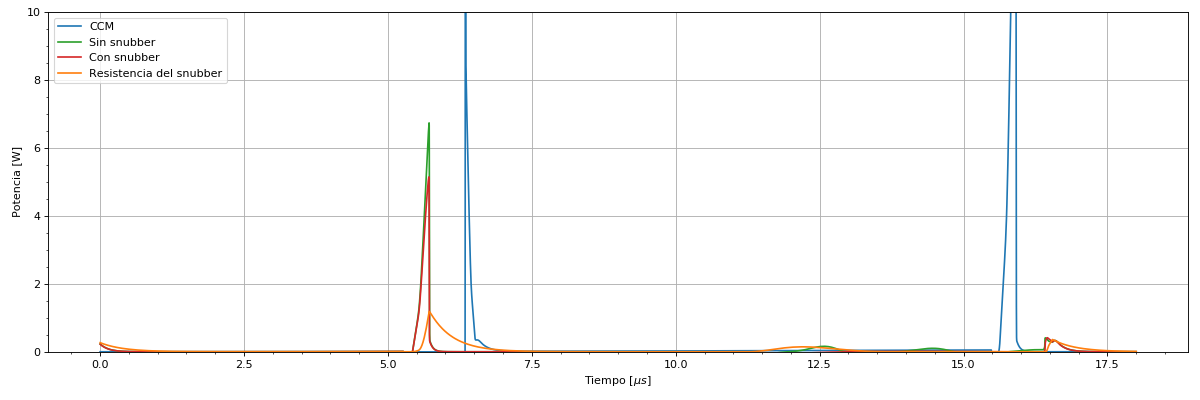
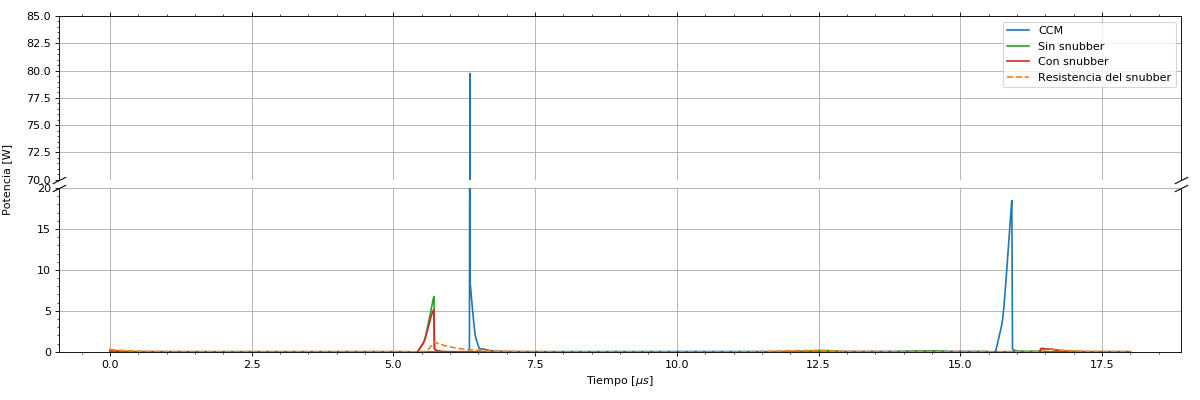
crop

diff --git a/TP1/Ejercicio 4/Python/SpiceCurves.py b/TP1/Ejercicio 4/Python/SpiceCurves.py
@@ -132,25 +132,50 @@ else:
     color3 = 'tab:red'
     color4 = 'tab:orange'
 
-    plt.figure(num=6, figsize=(15, 5), dpi=80, facecolor='w', edgecolor='k')
-    plt.ylabel("Potencia [W]")
+    fig, (ax1, ax2) = plt.subplots(2, 1, sharex=True, figsize=(15, 5), dpi=80, facecolor='w', edgecolor='k')
+    fig.subplots_adjust(hspace=0.05)  # adjust space between axes
+
+    l1, = ax1.plot(t_ccm, pot_ccm, color=color1)
+    l1, = ax2.plot(t_ccm, pot_ccm, color=color1)
+
+    l2, = ax1.plot(t_pot, pot_pot, color=color2)
+    l2, = ax2.plot(t_pot, pot_pot, color=color2)
+
+    l3, = ax1.plot(t_snub, pot_snub, color=color3)
+    l3, = ax2.plot(t_snub, pot_snub, color=color3)
+
+    l4, = ax1.plot(t_snub, pot_snub_r, '--', color=color4)
+    l4, = ax2.plot(t_snub, pot_snub_r, '--', color=color4)
+
+    plt.text(-1.9, 21, 'Potencia [W]', va='center', rotation='vertical')
+
+    ax1.set_ylim(70, 85)  # outliers only
+    ax2.set_ylim(0, 20)  # most of the data
+
+    # hide the spines between ax and ax2
+    ax1.spines['bottom'].set_visible(False)
+    ax2.spines['top'].set_visible(False)
+    ax1.xaxis.tick_top()
+    ax1.tick_params(labeltop=False)  # don't put tick labels at the top
+    ax2.xaxis.tick_bottom()
+
+    d = .5  # proportion of vertical to horizontal extent of the slanted line
+    kwargs = dict(marker=[(-1, -d), (1, d)], markersize=12,
+                  linestyle="none", color='k', mec='k', mew=1, clip_on=False)
+    ax1.plot([0, 1], [0, 0], transform=ax1.transAxes, **kwargs)
+    ax2.plot([0, 1], [1, 1], transform=ax2.transAxes, **kwargs)
+
+    ax1.legend([l1, l2, l3, l4], ["CCM", "Sin snubber", "Con snubber", "Resistencia del snubber"])
+
+    ax1.minorticks_on()
+    ax1.grid(which='major')
+    ax2.minorticks_on()
+    ax2.grid(which='major')
+
     plt.xlabel('Tiempo $[\mu s]$')
-
-    plt.minorticks_on()
-    plt.grid(which='major')
-
-    l1, = plt.plot(t_ccm, pot_ccm, color=color1)
-    l2, = plt.plot(t_pot, pot_pot, color=color2)
-    l3, = plt.plot(t_snub, pot_snub, color=color3)
-    l4, = plt.plot(t_snub, pot_snub_r, '-', color=color4)
-
-    plt.legend([l1, l2, l3, l4], ["CCM", "Sin snubber", "Con snubber", "Resistencia del snubber"])
-
+    #ax1.text(-1.75, 85, 'Potencia [W]', va='top', rotation='vertical')
     plt.tight_layout()
-
-    plt.savefig('..\..\Tex\Ejercicio-4\ImagenesEjercicio-4\potencias.png')
-
-    plt.ylim(0, 10)
+    fig.subplots_adjust(hspace=0.05)
     plt.savefig('..\..\Tex\Ejercicio-4\ImagenesEjercicio-4\potencias-crop.png')
 
     plt.show()
